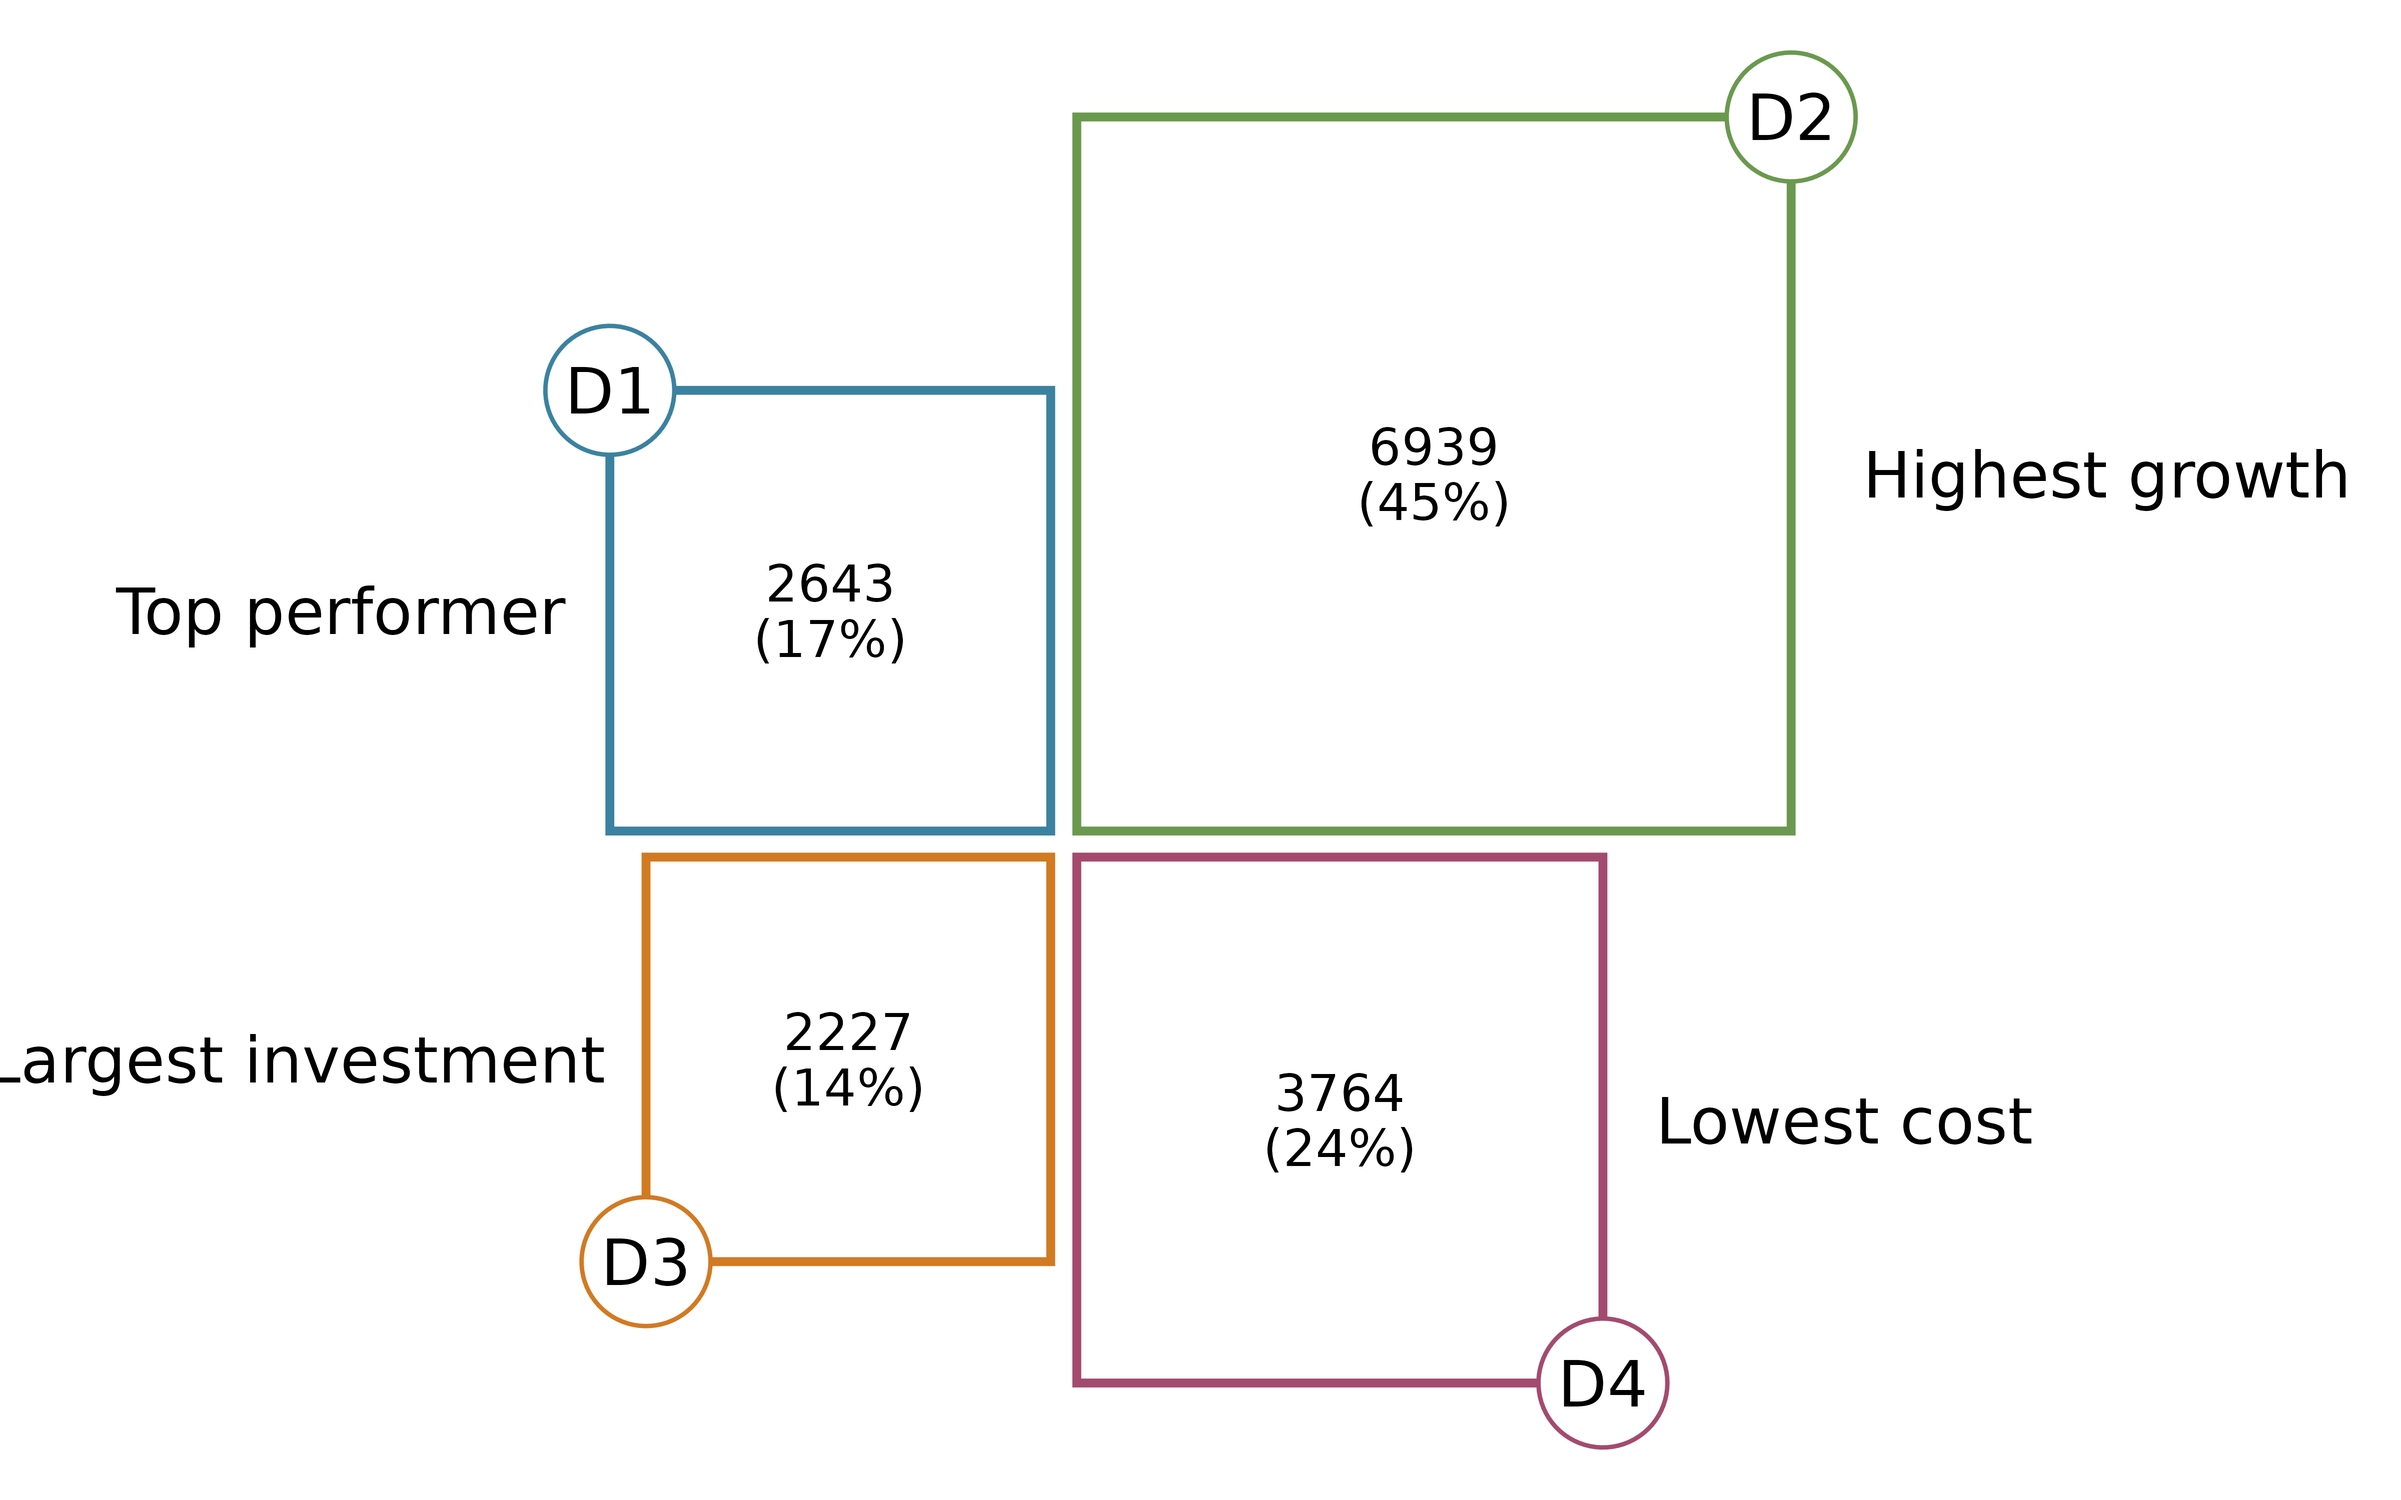
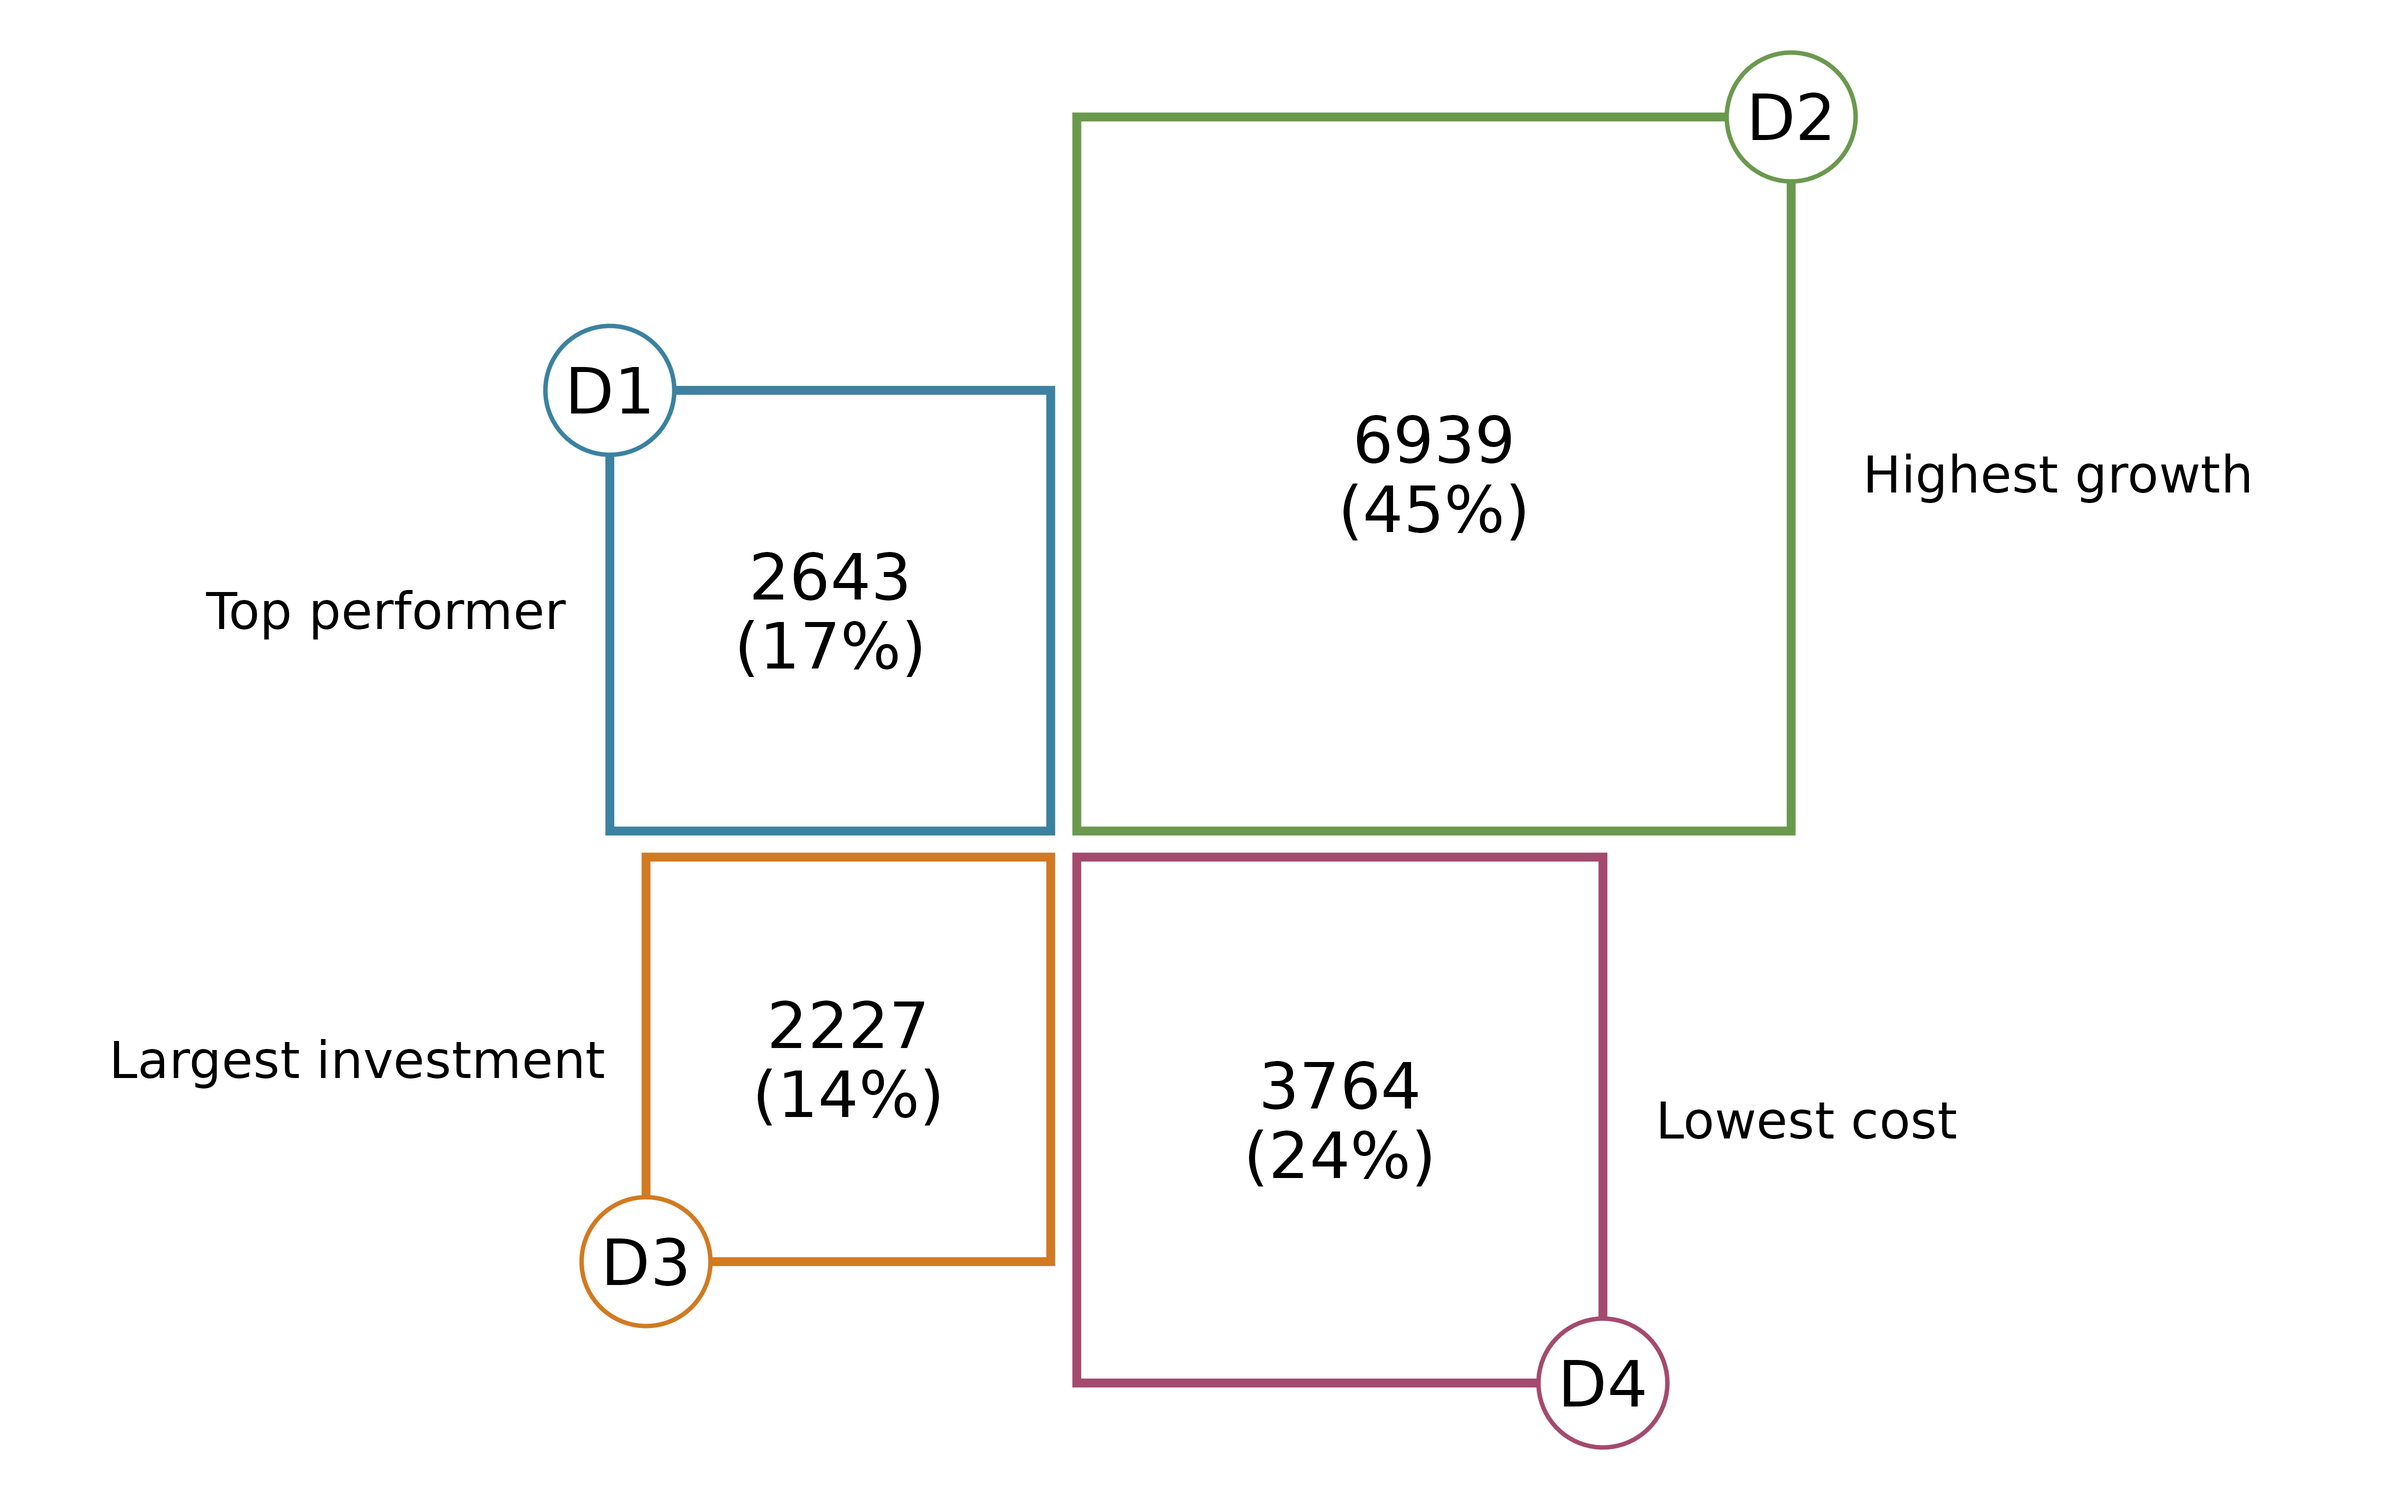
Deploying to gh-pages from @ hriisalu/rectangler@f4d90cadfc0411f1b0ff56bab0c7cd699482e6ef 🚀

diff --git a/articles/rectangler.html b/articles/rectangler.html
@@ -183,7 +183,7 @@ layers.</p>
 <span>  <span class="op">)</span> <span class="op"><a href="https://magrittr.tidyverse.org/reference/pipe.html" class="external-link">%&gt;%</a></span></span>
 <span>  <span class="fu"><a href="../reference/rect_label.html">rect_label</a></span><span class="op">(</span></span>
 <span>    label_col <span class="op">=</span> <span class="st">"text"</span>,</span>
-<span>    size <span class="op">=</span> <span class="fl">0.8</span></span>
+<span>    size <span class="op">=</span> <span class="fl">1</span></span>
 <span>  <span class="op">)</span> <span class="op"><a href="https://magrittr.tidyverse.org/reference/pipe.html" class="external-link">%&gt;%</a></span></span>
 <span>  <span class="fu"><a href="../reference/rect_shape.html">rect_shape</a></span><span class="op">(</span></span>
 <span>    position <span class="op">=</span> <span class="st">"corner"</span>,</span>
@@ -198,7 +198,8 @@ layers.</p>
 <span>  <span class="fu"><a href="../reference/rect_annotation.html">rect_annotation</a></span><span class="op">(</span></span>
 <span>    label_col <span class="op">=</span> <span class="st">"annotation"</span>,</span>
 <span>    position <span class="op">=</span> <span class="st">"horizontal"</span>,</span>
-<span>    space <span class="op">=</span> <span class="fl">1</span></span>
+<span>    size <span class="op">=</span> <span class="fl">0.8</span>,</span>
+<span>    space <span class="op">=</span> <span class="fl">1.1</span></span>
 <span>  <span class="op">)</span></span></code></pre></div>
 <p><img src="figures/vignette-first-plot-5-1.png" class="r-plt" alt="" width="65%"></p>
 <p>The same grammar is used throughout the package:</p>

diff --git a/articles/rectangler.md b/articles/rectangler.md
@@ -154,7 +154,7 @@ rect_plot4(mydata, value_col = "value") %>%
   ) %>%
   rect_label(
     label_col = "text",
-    size = 0.8
+    size = 1
   ) %>%
   rect_shape(
     position = "corner",
@@ -169,7 +169,8 @@ rect_plot4(mydata, value_col = "value") %>%
   rect_annotation(
     label_col = "annotation",
     position = "horizontal",
-    space = 1
+    size = 0.8,
+    space = 1.1
   )
 ```
 
